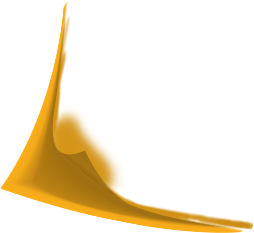
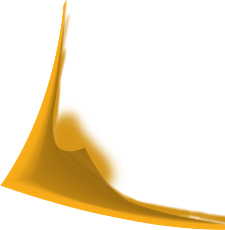
update

diff --git a/css/main.css b/css/main.css
@@ -7333,54 +7333,63 @@ html.fp-enabled,
 .stickers .sticker.sticker-1 {
   z-index: 5;
   width: 27.3390036452%;
-  /*&:before{
-                content: '';
-                position: absolute;
-                top: -2px;
-                left: -52px;
-                //border: 1px solid red;
-                background: transparent url("../im/sticker1-shadow.png") 0 0 no-repeat;
-
-                width: 254px;
-                height: 233px;
-            }*/
+}
+.stickers .sticker.sticker-1:before {
+  content: '';
+  position: absolute;
+  top: 0.5%;
+  left: -21%;
+  background: transparent url("../im/sticker1-shadow.png") 0 0 no-repeat;
+  width: 100%;
+  height: 100%;
+  background-size: 100%;
 }
 .stickers .sticker.sticker-2 {
   width: 25.39489671932%;
   margin-left: -1.33657351%;
   margin-top: 9px;
-  /*&:before{
-                content: '';
-                position: absolute;
-                top: 0;
-                left: -4px;
-                //border: 1px solid red;
-                background: transparent url("../im/sticker2-shadow.png") 0 0 no-repeat;
-                width: 215px;
-                height: 214px;
-            }*/
+}
+.stickers .sticker.sticker-2:before {
+  content: '';
+  position: absolute;
+  top: 2.5%;
+  left: -2.5%;
+  background: transparent url("../im/sticker2-shadow.png") 0 0 no-repeat;
+  background-size: 100%;
+  width: 100%;
+  height: 100%;
 }
 .stickers .sticker.sticker-3 {
   margin-left: -3.5236938%;
   margin-top: 0;
   z-index: 7;
   width: 28.79708384%;
+  /*&:before{
+                content: '';
+                position: absolute;
+                top: 0.5%;
+                left: -21%;
+                background: transparent url("../im/sticker3-shadow.png") 0 0 no-repeat;
+                width: 100%;
+                height: 100%;
+                background-size: 100%;
+            }*/
 }
 .stickers .sticker.sticker-4 {
   width: 25.39489671932%;
   margin-left: -2.46561361%;
   margin-top: 9px;
   z-index: 6;
-  /*&:before{
-                content: '';
-                position: absolute;
-                bottom: -2px;
-                left: -1px;
-                //border: 1px solid red;
-                background: transparent url("../im/sticker4-shadow.png") 0 0 no-repeat;
-                width: 147px;
-                height: 146px;
-            }*/
+}
+.stickers .sticker.sticker-4:before {
+  content: '';
+  position: absolute;
+  top: 2.5%;
+  left: -2.5%;
+  background: transparent url("../im/sticker2-shadow.png") 0 0 no-repeat;
+  background-size: 100%;
+  width: 100%;
+  height: 100%;
 }
 .stickers .sticker:hover {
   cursor: pointer;
